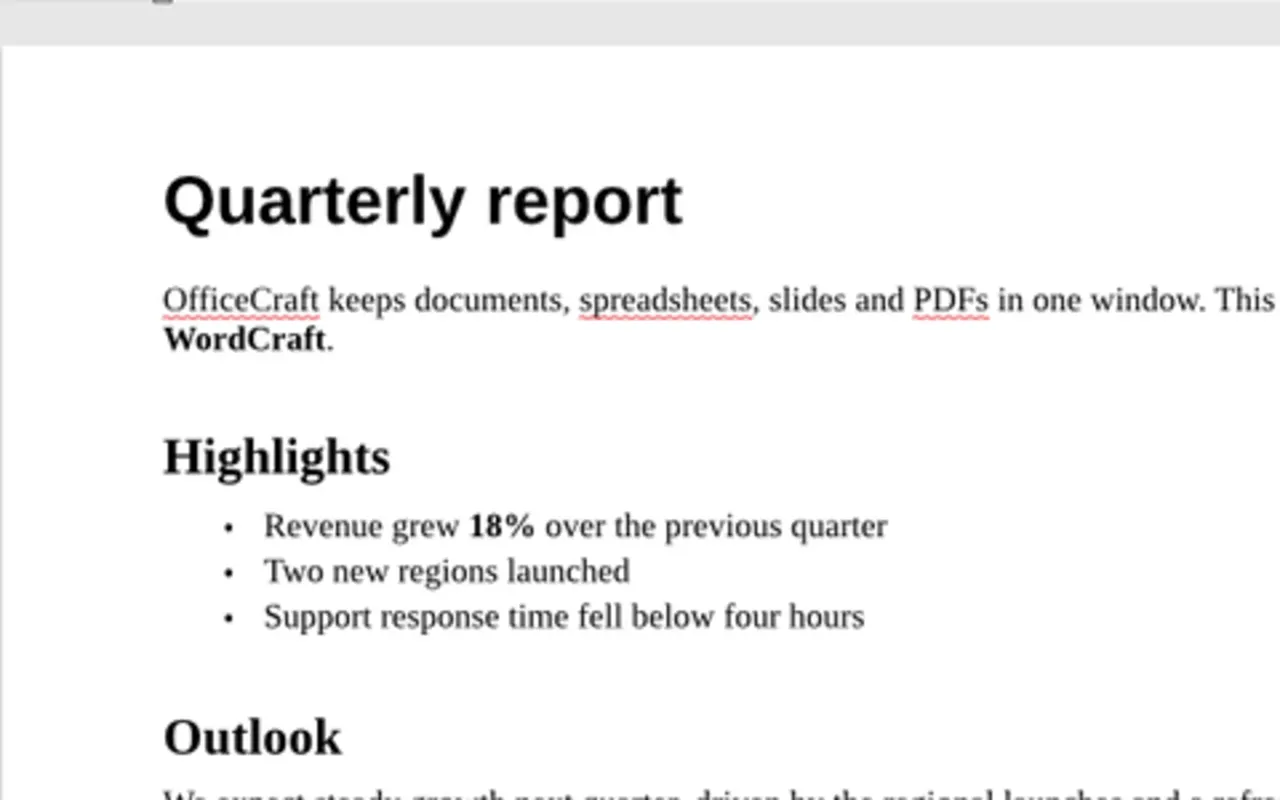
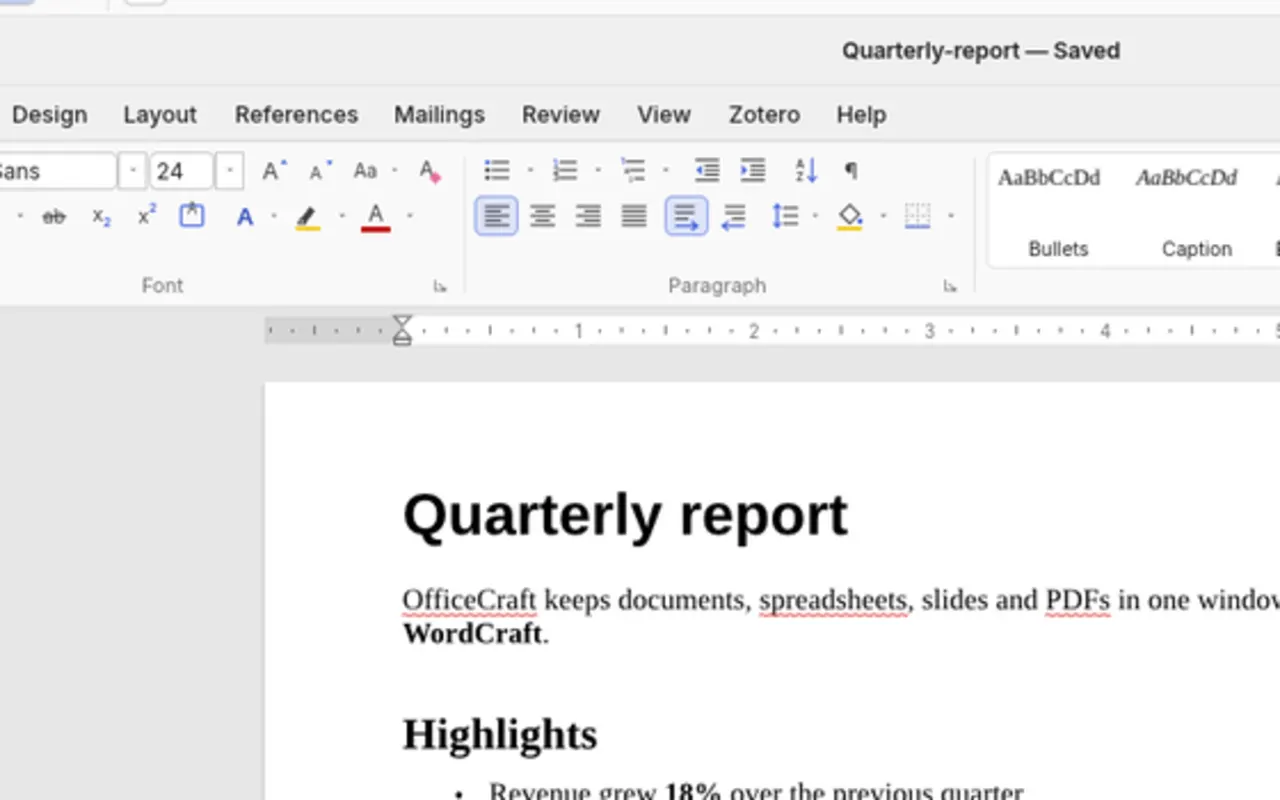
UI climb r11: legible hero collage, ruled answer key, bold leads
Hero collage shows three readable close-ups: the rāSHio histogram, a
verSHion quiz and the equaSHion formula. Answer key drops the tile-like
cards for red-ruled columns. Every project description opens with a
bold lead clause. Phone scorecard reads as one inline line of stats.
OfficeCraft shows ribbon plus document at a readable zoom.

diff --git a/index.html b/index.html
@@ -172,7 +172,7 @@
     .score .grade { position: relative; }
     .score .grade .num { color: var(--red); }
     .score .grade .note { display: none; }
-    @media (max-width: 759px) { .score { grid-template-columns: repeat(4, 1fr); margin-bottom: 2.5rem; } .score > div { padding: 0.7rem 0.55rem 0.6rem; border-bottom: 0; } .score > div:last-child { border-right: 0; } .score .num { height: 2.4rem; font-size: 2rem; } .score .lbl { font-size: 0.7rem; } }
+    @media (max-width: 759px) { .score { display: flex; flex-wrap: wrap; gap: 0.35rem 1.1rem; padding: 0.75rem 1rem; margin-bottom: 2.5rem; } .score > div { padding: 0; border: 0; display: flex; align-items: baseline; gap: 0.35rem; } .score .num { display: inline; height: auto; font-size: 1.6rem; } .score .lbl { display: inline; margin: 0; font-size: 0.8rem; } }
 
     /* Section titles */
     .sec-title { display: flex; align-items: baseline; gap: 1rem; flex-wrap: wrap; margin: 0 0 0.6rem; }
@@ -228,6 +228,7 @@
     @media (prefers-color-scheme: dark) { .prob h3 a { background-image: linear-gradient(transparent 58%, rgba(255,132,102,.32) 58%, rgba(255,132,102,.32) 92%, transparent 92%); } }
     .prob:hover h3 a, .prob h3 a:focus-visible { background-size: 100% 100%; }
     .prob p { margin: 0; color: var(--ink-soft); max-width: 50ch; }
+    .prob .lead { color: var(--ink); font-weight: 650; }
     .prob .given { font-family: var(--mono); font-size: 0.82rem; color: var(--ink-soft); }
     .prob .given b { color: var(--ink); font-weight: 600; }
     .prob .links { display: flex; align-items: center; gap: 1.25rem; font-family: var(--mono); font-size: 0.85rem; margin-top: 0.35rem; }
@@ -271,8 +272,8 @@
     .key .sig { color: var(--red); font-weight: 300; margin-right: 0.1em; }
     .key .big { font-size: clamp(1.2rem, 2vw, 1.5rem); line-height: 1.35; font-weight: 400; color: var(--ink-soft); margin: 0.9rem 0 2rem; max-width: 40ch; }
     .key .cards { margin: 0; padding: 0; list-style: none; counter-reset: k; display: grid; grid-template-columns: 1fr; gap: 1.5rem; }
-    @media (min-width: 760px) { .key .cards { grid-template-columns: 1fr 1fr; gap: 1.5rem; } }
-    .key .cards li { counter-increment: k; background: var(--card); border: 1px solid var(--frame-edge); border-top: 3px solid var(--red); padding: 1.2rem 1.4rem 1.3rem; }
+    @media (min-width: 760px) { .key .cards { grid-template-columns: 1fr 1fr; gap: 2.25rem 3rem; } }
+    .key .cards li { counter-increment: k; border-left: 3px solid var(--red); padding: 0.2rem 0 0.3rem 1.1rem; }
     .key .cards h3 { margin: 0 0 0.5rem; font-size: 1.25rem; letter-spacing: 0; font-weight: 700; font-stretch: 100%; }
     .key .cards h3::before { content: counter(k, lower-alpha) ") "; font-family: var(--hand); font-size: 1.5rem; color: var(--red); }
     .key .cards p { margin: 0; color: var(--ink); }
@@ -332,8 +333,8 @@
           </div>
         </div>
         <div class="stack">
-          <figure class="print p1"><img src="img/rashio.webp" width="1280" height="800" alt="rāSHio, an online statistics calculator, listing its tools." fetchpriority="high"><figcaption>rāSHio</figcaption></figure>
-          <figure class="print p2"><img src="img/vershion.webp" width="1280" height="800" alt="verSHion's landing page: Turn anything into an exam, beside a printed linear equations quiz."><figcaption>verSHion</figcaption></figure>
+          <figure class="print p1"><img src="img/rashio-app.webp" width="1280" height="800" alt="rāSHio drawing a histogram and box plot of sample ages." fetchpriority="high"><figcaption>rāSHio</figcaption></figure>
+          <figure class="print p2"><img src="img/vershion-phone.webp" width="1024" height="768" alt="A printed linear equations quiz made with verSHion."><figcaption>verSHion</figcaption></figure>
           <figure class="print p3"><img src="img/equashion-hero.webp" width="1280" height="800" alt="equaSHion, an equation editor, showing the quadratic formula."><figcaption>equaSHion</figcaption></figure>
           <p class="note" aria-hidden="true">ink smudges are a feature</p>
         </div>
@@ -363,7 +364,7 @@
           <article class="prob feature reveal" data-cat="class">
             <figure class="print"><img src="img/rashio-app.webp" width="1280" height="800" loading="lazy" alt="rāSHio's preview app: a histogram and box plot of sample ages with min, quartiles, median and max."><figcaption class="strip"><span class="stamp live">Live</span><span class="note" aria-hidden="true">say it: ray-she-oh</span></figcaption></figure>
             <div class="head"><span class="n">1.</span><h3><a href="https://rashio.app/">rā<span class="sh">SH</span>io</a></h3></div>
-            <p>A statistics calculator for the intro course, built to replace the StatCrunch and TI-84 shuffle. A spreadsheet up front, then t-tests, ANOVA, chi-square and probability shading, and every chart redraws as the data changes. The data never leaves the student's machine.</p>
+            <p><strong class="lead">A statistics calculator for the intro course, built to replace the StatCrunch and TI-84 shuffle.</strong> A spreadsheet up front, then t-tests, ANOVA, chi-square and probability shading, and every chart redraws as the data changes. The data never leaves the student's machine.</p>
             <span class="given"><b>Given:</b> browser, D3, Cloudflare D1</span>
             <span class="links"><a class="go" href="https://rashio.app/">Open it &rarr;</a></span>
           </article>
@@ -371,7 +372,7 @@
           <article class="prob s3 reveal" data-cat="class">
             <figure class="print"><img src="img/bookshelf.webp" width="1280" height="800" loading="lazy" alt="bookSHelf's shelf of open textbooks: Integrated Math 1, Introduction to Statistics and Calculus Volume 1."><figcaption class="strip"><span class="stamp live">Live</span></figcaption></figure>
             <div class="head"><span class="n">2.</span><h3><a href="https://oerbookshelf.app/">book<span class="sh">SH</span>elf</a></h3></div>
-            <p>Open textbooks, rewritten for the student who actually reads them: plain-English explanations, worked examples, collapsible solutions. An 11&#8209;step pipeline produces every page.</p>
+            <p><strong class="lead">Open textbooks, rewritten for the student who actually reads them:</strong> plain-English explanations, worked examples, collapsible solutions. An 11&#8209;step pipeline produces every page.</p>
             <span class="given"><b>Given:</b> 180+ sections, MathJax</span>
             <span class="links"><a class="go" href="https://oerbookshelf.app/">Open it &rarr;</a></span>
           </article>
@@ -379,7 +380,7 @@
           <article class="prob s3 reveal" data-cat="class">
             <figure class="print"><picture><source media="(max-width: 759px)" srcset="img/vershion-phone.webp"><img style="--ar: 4 / 3" src="img/vershion-card.webp" width="1280" height="800" loading="lazy" alt="verSHion: Turn anything into an exam, beside a printed linear equations quiz."></picture><figcaption class="strip"><span class="stamp live">Live</span><span class="note" aria-hidden="true">version A, version B.</span></figcaption></figure>
             <div class="head"><span class="n">3.</span><h3><a href="https://vershion.lefthanddev.com/">ver<span class="sh">SH</span>ion</a></h3></div>
-            <p>Question banks in, printed tests out. Old PDFs, scans, screenshots and Word docs become clean exams with shuffled versions and an answer key.</p>
+            <p><strong class="lead">Question banks in, printed tests out.</strong> Old PDFs, scans, screenshots and Word docs become clean exams with shuffled versions and an answer key.</p>
             <span class="given"><b>Given:</b> Rust, egui, WebAssembly</span>
             <span class="links"><a class="go" href="https://vershion.lefthanddev.com/">Open it &rarr;</a><a href="https://github.com/shuff57/verSHion">Source</a></span>
           </article>
@@ -387,7 +388,7 @@
           <article class="prob s3 reveal" data-cat="class">
             <figure class="print"><picture><source media="(max-width: 759px)" srcset="img/shcode-phone.webp"><img style="--ar: 16 / 10" src="img/shcode.webp" width="1280" height="800" loading="lazy" alt="shCode's lesson list, Chapter 1: JavaScript Fundamentals."></picture><figcaption class="strip"><span class="stamp live">Live</span><span class="note" aria-hidden="true">the course I actually teach</span></figcaption></figure>
             <div class="head"><span class="n">4.</span><h3><a href="https://shcode.pages.dev/"><span class="sh">sh</span>Code</a></h3></div>
-            <p>A whole classroom platform for high school JavaScript: lessons, an in-browser editor with live autograding, join codes and per-student progress for the teacher.</p>
+            <p><strong class="lead">A whole classroom platform for high school JavaScript:</strong> lessons, an in-browser editor with live autograding, join codes and per-student progress for the teacher.</p>
             <span class="given"><b>Given:</b> Next.js, CodeMirror, D1</span>
             <span class="links"><a class="go" href="https://shcode.pages.dev/">Open it &rarr;</a><a href="https://github.com/shuff57/shCode">Source</a></span>
           </article>
@@ -395,7 +396,7 @@
           <article class="prob s3 reveal" data-cat="class">
             <figure class="print"><img src="img/inishial.webp" width="1280" height="800" loading="lazy" alt="iniSHial: a course syllabus on lined paper with student and parent sign-up."><figcaption class="strip"><span class="stamp live">Live</span><span class="note" aria-hidden="true">no backpack required.</span></figcaption></figure>
             <div class="head"><span class="n">5.</span><h3><a href="https://inishial.pages.dev/">ini<span class="sh">SH</span>ial</a></h3></div>
-            <p>A living syllabus that parents initial section by section, so a signature means they read the late-work policy.</p>
+            <p><strong class="lead">A living syllabus that parents initial section by section,</strong> so a signature means they read the late-work policy.</p>
             <span class="given"><b>Given:</b> vanilla JS, no build</span>
             <span class="links"><a class="go" href="https://inishial.pages.dev/">Open it &rarr;</a><a href="https://github.com/shuff57/inishial">Source</a></span>
           </article>
@@ -403,7 +404,7 @@
           <article class="prob s3 reveal" data-cat="class">
             <figure class="print"><img src="img/moshion.webp" width="1280" height="800" loading="lazy" alt="moSHion: Sprites and real physics in a handful of globals, with a game sandbox."><figcaption class="strip"><span class="stamp live">Live</span></figcaption></figure>
             <div class="head"><span class="n">6.</span><h3><a href="https://shuff57.github.io/moshion/">mo<span class="sh">SH</span>ion</a></h3></div>
-            <p>A 2D game engine for beginners: sprites and real Box2D physics in a handful of globals. Write setup() and draw(), and the engine runs them.</p>
+            <p><strong class="lead">A 2D game engine for beginners:</strong> sprites and real Box2D physics in a handful of globals. Write setup() and draw(), and the engine runs them.</p>
             <span class="given"><b>Given:</b> planck.js, zero imports</span>
             <span class="links"><a class="go" href="https://shuff57.github.io/moshion/">Open it &rarr;</a><a href="https://github.com/shuff57/moshion">Source</a></span>
           </article>
@@ -411,7 +412,7 @@
           <article class="prob s3 reveal" data-cat="make">
             <figure class="print"><img src="img/equashion.webp" width="1280" height="800" loading="lazy" alt="equaSHion's equation editor with the quadratic formula typed in."><figcaption class="strip"><span class="stamp live">Live</span></figcaption></figure>
             <div class="head"><span class="n">7.</span><h3><a href="https://equashion.lefthanddev.com/">equa<span class="sh">SH</span>ion</a></h3></div>
-            <p>An equation editor in pure Rust. Type it naturally, then copy it out as LaTeX, MathML, Word's OMML or SVG.</p>
+            <p><strong class="lead">An equation editor in pure Rust.</strong> Type it naturally, then copy it out as LaTeX, MathML, Word's OMML or SVG.</p>
             <span class="given"><b>Given:</b> Rust, wasm, WebGL2</span>
             <span class="links"><a class="go" href="https://equashion.lefthanddev.com/">Open it &rarr;</a><a href="https://github.com/shuff57/equaSHion">Source</a></span>
           </article>
@@ -419,7 +420,7 @@
           <article class="prob s3 reveal" data-cat="make">
             <figure class="print"><picture><source media="(max-width: 759px)" srcset="img/officecraft-doc.webp"><img style="--pos: 35% top" src="img/officecraft-wide.webp" width="1280" height="800" loading="lazy" alt="OfficeCraft's home screen with WordCraft, GridCraft, DeckCraft, PdfCraft, viSHual, equaSHion and verSHion."></picture><figcaption class="strip"><span class="stamp live">Live</span><span class="note" aria-hidden="true">docs, sheets, slides, PDF.</span></figcaption></figure>
             <div class="head"><span class="n">8.</span><h3><a href="https://officecraft.lefthanddev.com/">OfficeCraft</a></h3></div>
-            <p>Documents, spreadsheets, slides and PDFs as tabs in one window. Opens .docx, .xlsx and .pptx, with equaSHion and verSHion built in. Every app is written in Rust.</p>
+            <p><strong class="lead">Documents, spreadsheets, slides and PDFs as tabs in one window.</strong> Opens .docx, .xlsx and .pptx, with equaSHion and verSHion built in. Every app is written in Rust.</p>
             <span class="given"><b>Given:</b> Rust, egui, wgpu</span>
             <span class="links"><a class="go" href="https://officecraft.lefthanddev.com/">Open it &rarr;</a><a href="https://github.com/shuff57/officecraft">Source</a></span>
           </article>
@@ -427,7 +428,7 @@
           <article class="prob s3 reveal" data-cat="lab">
             <figure class="print"><img src="img/leaf.webp" width="1280" height="800" loading="lazy" alt="L.E.A.F: Point a photo at a plant. Start with a better lead."><figcaption class="strip"><span class="stamp live">Live</span><span class="note" aria-hidden="true">point. shoot. botany.</span></figcaption></figure>
             <div class="head"><span class="n">9.</span><h3><a href="https://leaf.lefthanddev.com/">L.E.A.F</a></h3></div>
-            <p>Plant ID that runs on your own server or right in the browser. Seven real models get compared head to head, and the README says plainly that 16 photos are a smoke test.</p>
+            <p><strong class="lead">Plant ID that runs on your own server or right in the browser.</strong> Seven real models get compared head to head, and the README says plainly that 16 photos are a smoke test.</p>
             <span class="given"><b>Given:</b> FastAPI, BioCLIP, Docker</span>
             <span class="links"><a class="go" href="https://leaf.lefthanddev.com/">Open it &rarr;</a><a href="https://github.com/shuff57/LEAF">Source</a></span>
           </article>
@@ -435,7 +436,7 @@
           <article class="prob s3 reveal" data-cat="make">
             <figure class="print"><img src="img/slag.webp" width="1280" height="800" loading="lazy" alt="SLAG: machine and process setup beside wire speed and voltage gauges."><figcaption class="strip"><span class="stamp draft">Draft</span><span class="note" aria-hidden="true">the knob says 1&ndash;10.</span></figcaption></figure>
             <div class="head"><span class="n">10.</span><h3><a href="https://slagweld.pages.dev/">SLAG</a></h3></div>
-            <p>Weld settings for the machine in front of you. Pick the process, metal and thickness, and it turns the chart's targets into the number you actually dial in.</p>
+            <p><strong class="lead">Weld settings for the machine in front of you.</strong> Pick the process, metal and thickness, and it turns the chart's targets into the number you actually dial in.</p>
             <span class="given"><b>Given:</b> React, Vite, D1</span>
             <span class="links"><a class="go" href="https://slagweld.pages.dev/">Open it &rarr;</a><a href="https://github.com/shuff57/slag">Source</a></span>
           </article>
@@ -443,7 +444,7 @@
           <article class="prob s3 reveal" data-cat="make">
             <figure class="print"><img src="img/11gauge.webp" width="1280" height="800" loading="lazy" alt="11Gauge: Ready to analyze. Upload a photo or video of a weld."><figcaption class="strip"><span class="stamp draft">Draft</span></figcaption></figure>
             <div class="head"><span class="n">11.</span><h3><a href="https://11gauge.pages.dev/">11Gauge</a></h3></div>
-            <p>Grades welds, not people. Upload a photo or a short clip, describe the joint and position, and get a written report back from a vision model.</p>
+            <p><strong class="lead">Grades welds, not people.</strong> Upload a photo or a short clip, describe the joint and position, and get a written report back from a vision model.</p>
             <span class="given"><b>Given:</b> Qwen3-VL, Ollama</span>
             <span class="links"><a class="go" href="https://11gauge.pages.dev/">Open it &rarr;</a><a href="https://github.com/shuff57/11Gauge">Source</a></span>
           </article>
